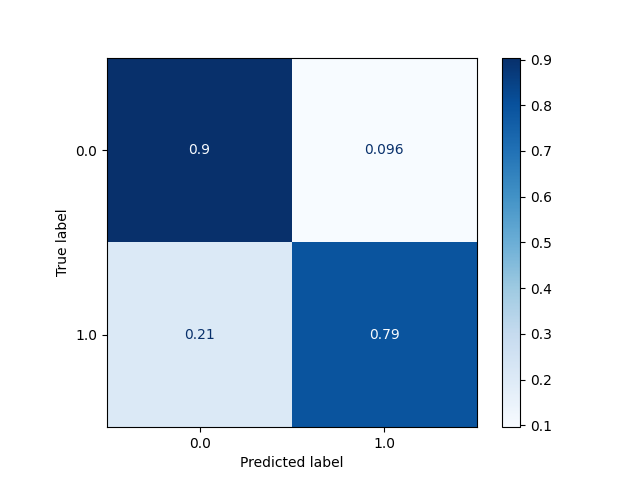
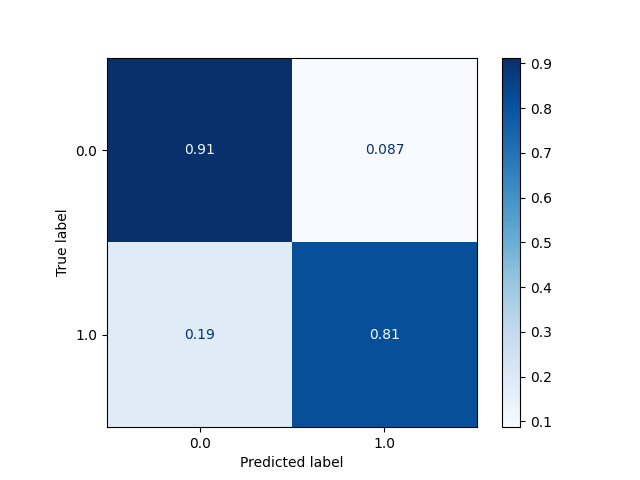
depth with 5

diff --git a/train.py b/train.py
@@ -14,7 +14,7 @@ y_test = np.genfromtxt("data/test_labels.csv")
 
 
 # Fit a model
-depth = 1
+depth = 5
 clf = RandomForestClassifier(max_depth=depth)
 clf.fit(X_train,y_train)
 dump(clf, "model.joblib")
